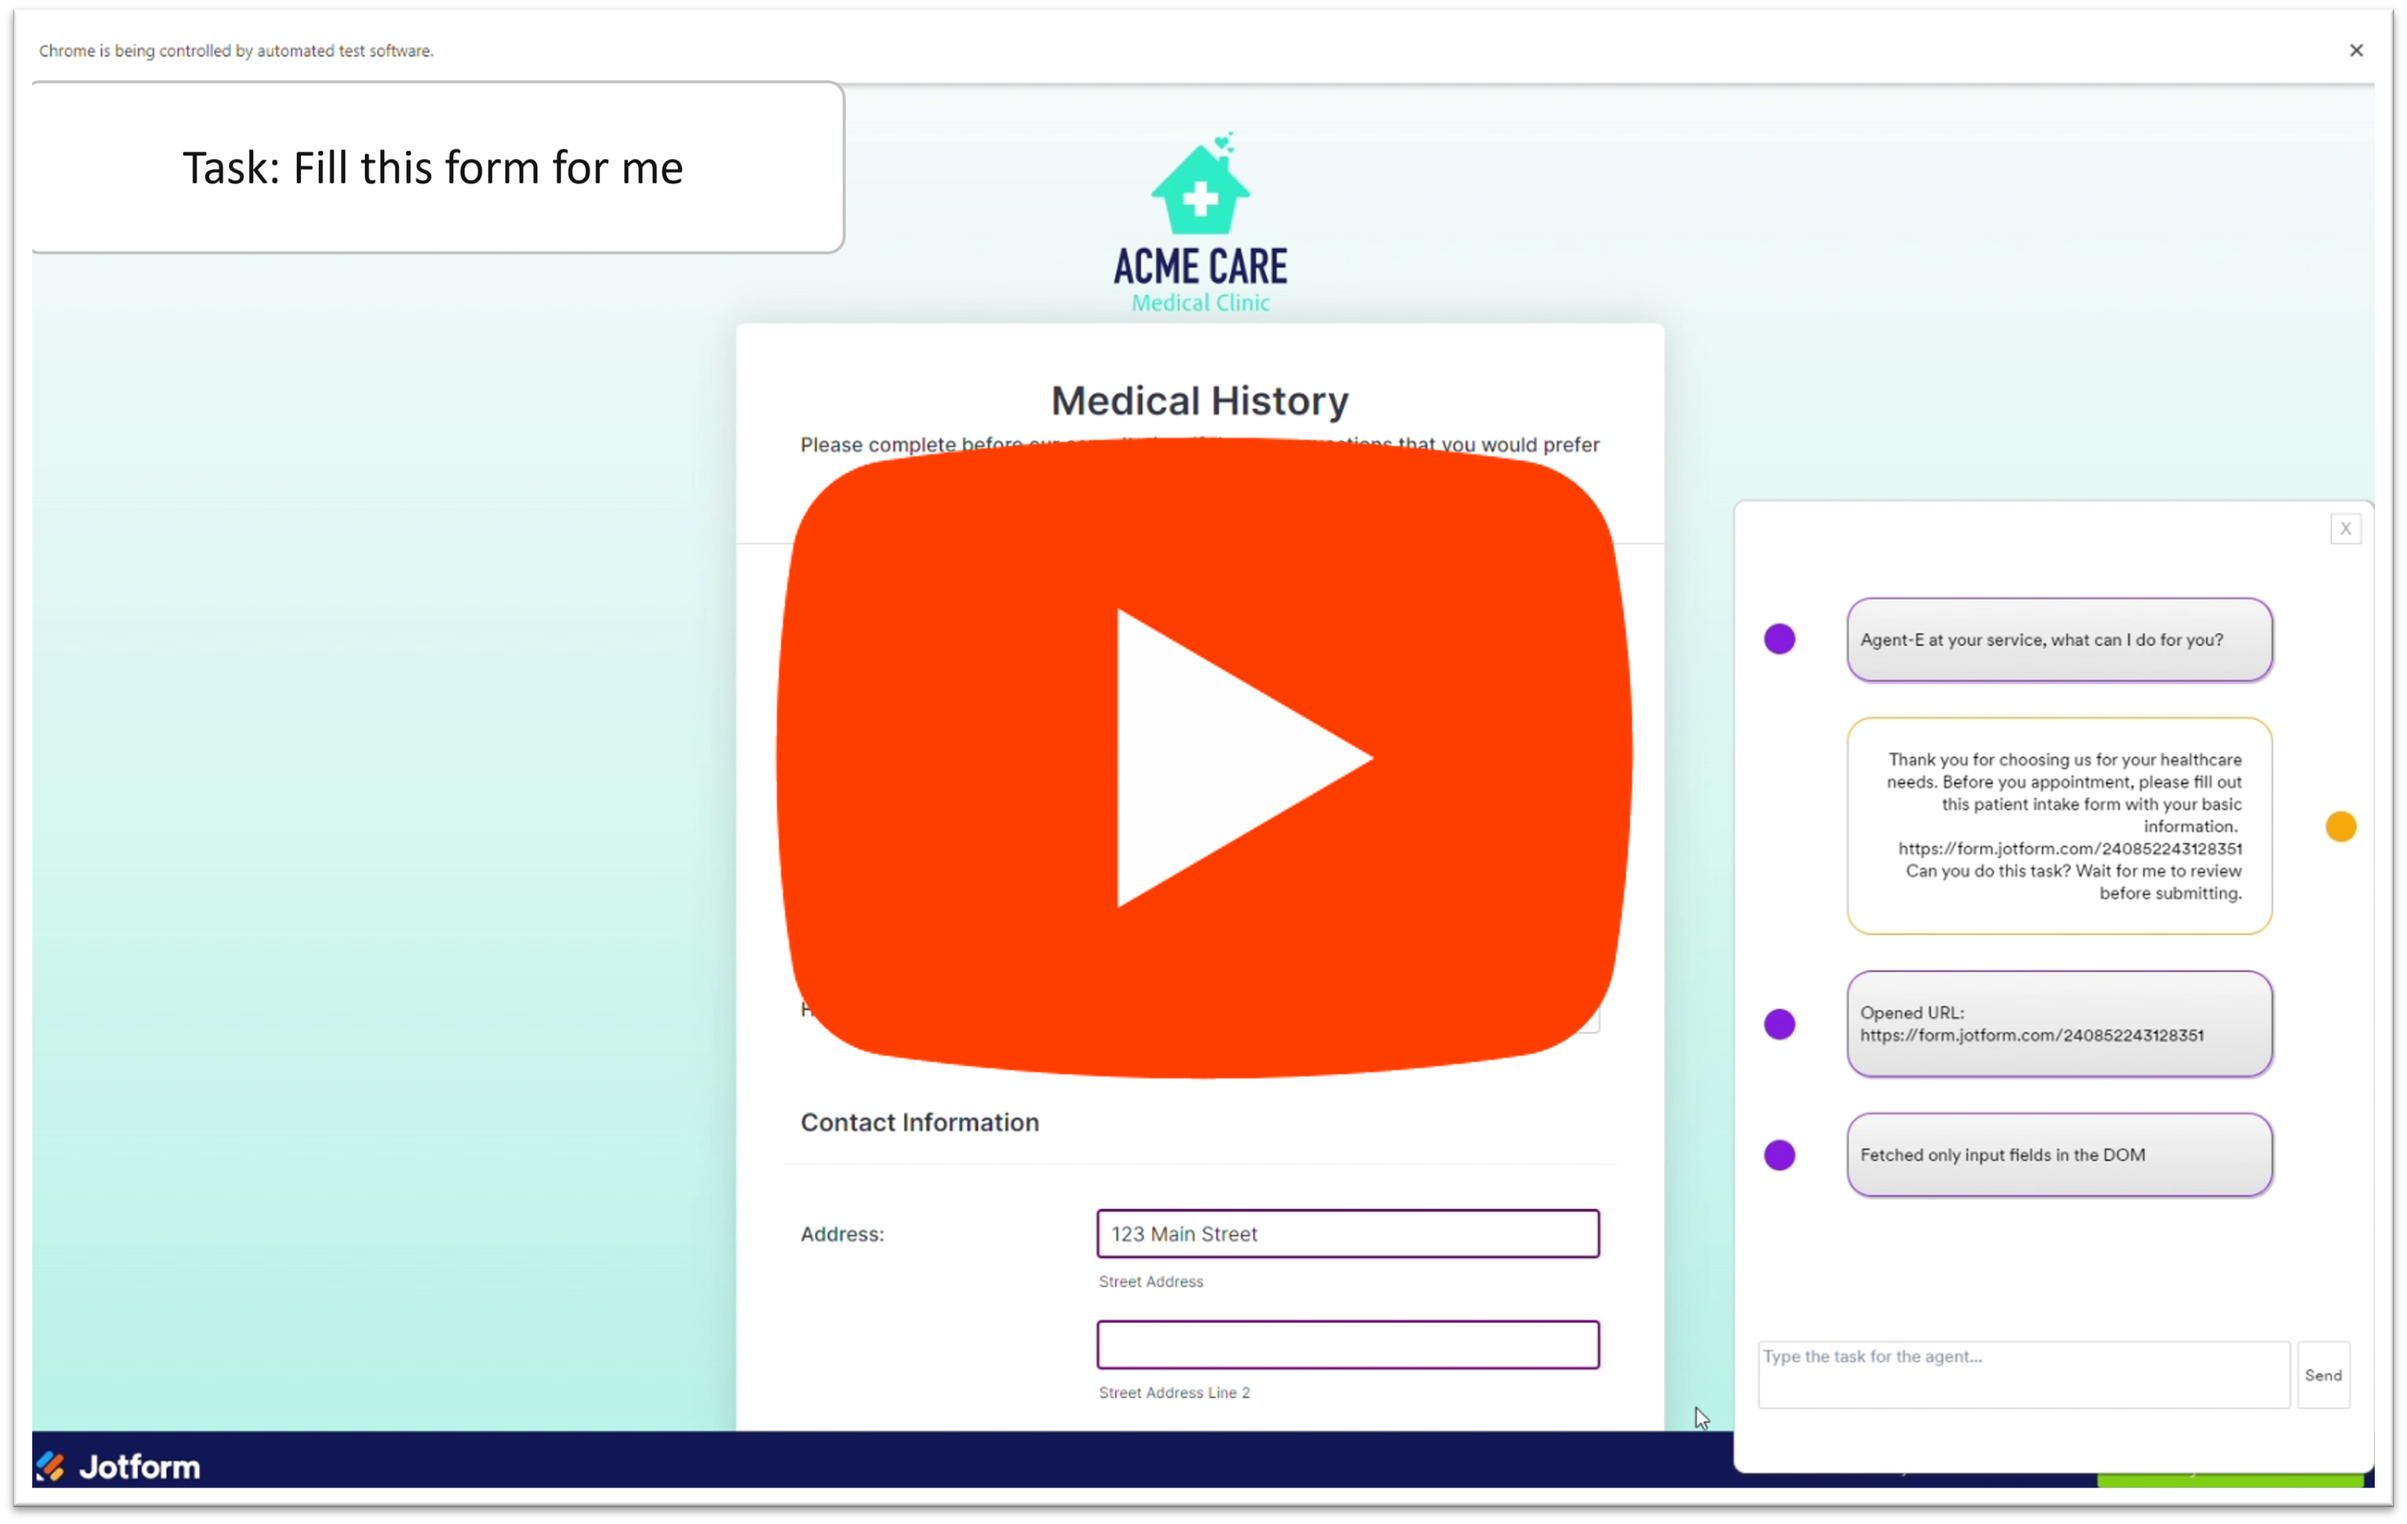
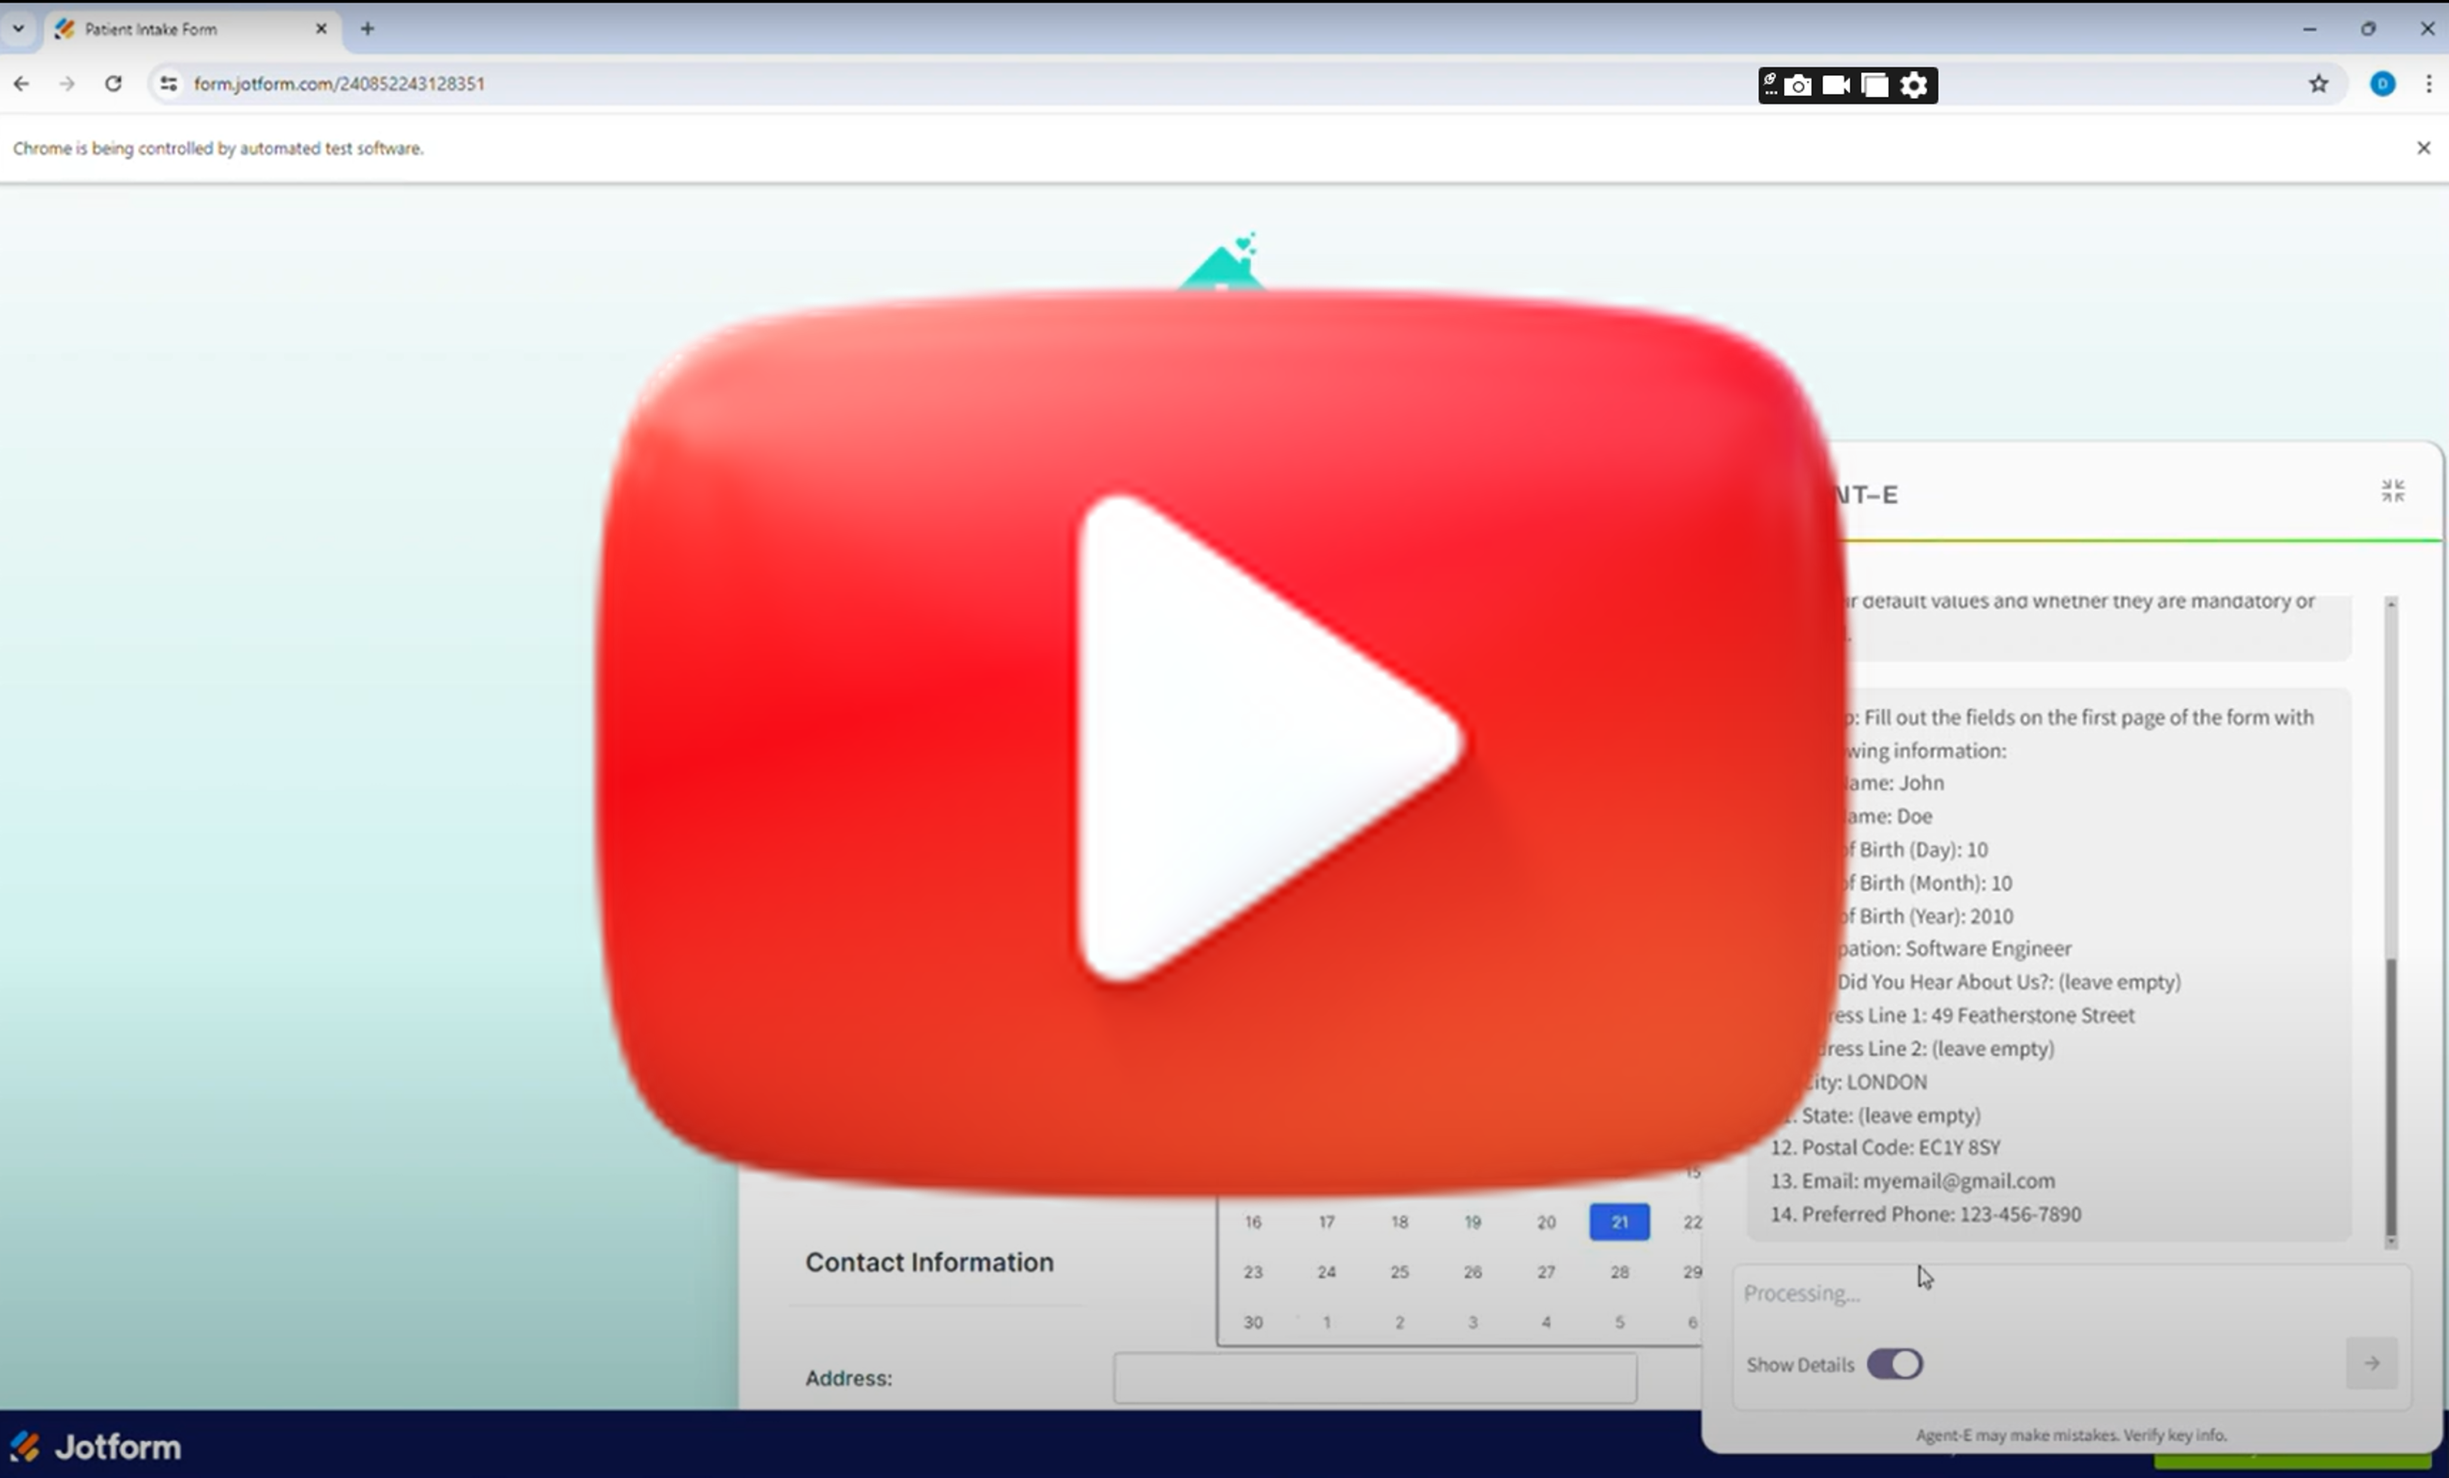
Update readme
Videos in new UI style
Link to Arxiv paper
Recommended model GPT4-Turbo
Update to Architecture Diagram

diff --git a/README.md b/README.md
@@ -1,4 +1,6 @@
 # Agent-E
+📚 [Cite paper](https://arxiv.org/abs/2407.13032)
+
 
 Agent-E is an agent based system that aims to automate actions on the user's computer. At the moment it focuses on automation within the browser. The system is based on on [AutoGen agent framework](https://github.com/microsoft/autogen).
 
@@ -29,7 +31,7 @@ While Agent-E is growing, it is already equipped to handle a versatile range of 
 - If you do not have Google Chrome locally (and don't want to install it), install playwright drivers: `playwright install`
 - .env file in project root is needed with the following (sample `.env-example` is included for convience):
     - Follow the directions in the sample file
-    - You will need to set `AUTOGEN_MODEL_NAME` (for example `gpt-4-turbo-preview`) and `AUTOGEN_MODEL_API_KEY`
+    - You will need to set `AUTOGEN_MODEL_NAME` (for example `gpt-4-turbo-preview`) and `AUTOGEN_MODEL_API_KEY`. For best results, `gpt-4-turbo-preview` is recommended. Although Agent-E may operate with local LLMs, these configurations have not undergone extensive testing.
     - If you are using a model other than OpenAI, you need to set `AUTOGEN_MODEL_BASE_URL` for example `https://api.groq.com/openai/v1` or `https://<REPLACE_AI_SERVICES>.openai.azure.com` on [Azure](https://azure.microsoft.com/).
     - For [Azure](https://azure.microsoft.com/), you'll also need to configure `AUTOGEN_MODEL_API_TYPE=azure` and `AUTOGEN_MODEL_API_VERSION` (for example `2023-03-15-preview`) variables.
     - If you want to use local chrome browser over playwright browser, go to chrome://version/ in chrome, find the path to your profile and set `BROWSER_STORAGE_DIR` to the path value
@@ -58,10 +60,10 @@ Once the program is running,  you should see an icon on the browser. The icon ex
 
 | Video | Command | Description |
 |-----------|-------------|-------------|
-| [![Oppenheimer Video](docs/images/play-video-on-youtube-thumbnail.png)](https://www.youtube.com/embed/zjYeULZW4Ao) | There is an Oppenheimer video on youtube by Veritasium, can you find it and play it? | <ul> <li>Navigates to www.youtube.com </li> <li>Searches for Oppenheimer Veritasium using the searchbar </li> <li> Plays the correct video </li></ul>|
-| [![Example 2: Use information to fill forms](docs/images/form-filling-thumbnail.png)](https://www.youtube.com/embed/B5PWBNBbmQU) | Can you do this task? Wait for me to review before submitting. | Takes the highlighted text from the email as part of the instruction. <ul> <li>Navigates to the form URL </li> <li>Identifies elements in the form to fill </li> <li> Fills the form using information from memory defined in user preferences.txt </li> <li>Waits for user to review before submitting the form </li> | 
-| [![Example 3: Find and add specific product to amazon cart](docs/images/amazon-add-to-cart-thumbnail.png)](https://www.youtube.com/embed/VU3AQWGFMls) | Find Finish dishwasher detergent tablets on amazon, sort by best seller and add the first one to my cart | <ul> <li> Navigates to www.amazon.com </li> <li>Searches for Finish dishwasher detergent tablets using amazon search feature </li> <li> Sorts the search results by best seller </li> <li>Selects the first product to navigate to the the product page of the first product. </li> <li> Adds the product to cart </li></ul> (_Note: sometimes add to cart part does not execute, but a simple `add first one to my shopping cart` works_) |
-| [![Example 4: Verify truthfulness of info using primary source](docs/images/tweet-verify-thumbnail.png)](https://www.youtube.com/embed/q2QjcdeTsCo) | Is this information about free courses true? | **Manually navigate to**: https://twitter.com/aisolopreneur/status/1772686923045413123. Then give the command. <ul><li> Navigates to NVDIA homepage. </li> <li> Clicks on the developer link to navigate to developer page. </li> <li> Clicks on the free courses link to navigate to courses page. </li> <li> Validates availability of free courses and answers the user </li>|
+| [![Oppenheimer Video](docs/images/play-video-on-youtube-thumbnail.png)](https://www.youtube.com/embed/v4BgYiDHNZs) | There is an Oppenheimer video on youtube by Veritasium, can you find it and play it? | <ul> <li>Navigates to www.youtube.com </li> <li>Searches for Oppenheimer Veritasium using the searchbar </li> <li> Plays the correct video </li></ul>|
+| [![Example 2: Use information to fill forms](docs/images/form-filling-thumbnail.png)](https://www.youtube.com/embed/uyE7tfKkB0E) | Can you do this task? Wait for me to review before submitting. | Takes the highlighted text from the email as part of the instruction. <ul> <li>Navigates to the form URL </li> <li>Identifies elements in the form to fill </li> <li> Fills the form using information from memory defined in user preferences.txt </li> <li>Waits for user to review before submitting the form </li> | 
+| [![Example 3: Find and add specific product to amazon cart](docs/images/amazon-add-to-cart-thumbnail.png)](https://www.youtube.com/embed/CiKZwU_F6TQ) | Find Finish dishwasher detergent tablets on amazon, sort by best seller and add the first one to my cart | <ul> <li> Navigates to www.amazon.com </li> <li>Searches for Finish dishwasher detergent tablets using amazon search feature </li> <li> Sorts the search results by best seller </li> <li>Selects the first product to navigate to the the product page of the first product. </li> <li> Adds the product to cart </li></ul> (_Note: sometimes add to cart part does not execute, but a simple `add first one to my shopping cart` works_) |
+| [![Example 4: Compare flight prices on Google Flights](docs/images/compare-flights-thumbnail.png)](https://www.youtube.com/embed/qJDtnMx0pTmQ) | Compare business class flight options from Lisbon to Singapore for a one-way trip on September 15, 2024 on Google Flights? | <ul><li>  </li> <li> Sets Journey type to one-way. </li> <li> Sets number of passengers to one. </li> <li> Sets departure date to 15 September </li> <li> Sets date to September 15 2024 </li> <li> Sets ticket type to business class </li> <li> Executes search </li> <li> Sets departure date to 15 September </li> Extracts flight information</ul>|
 
 
 ## Architecture
